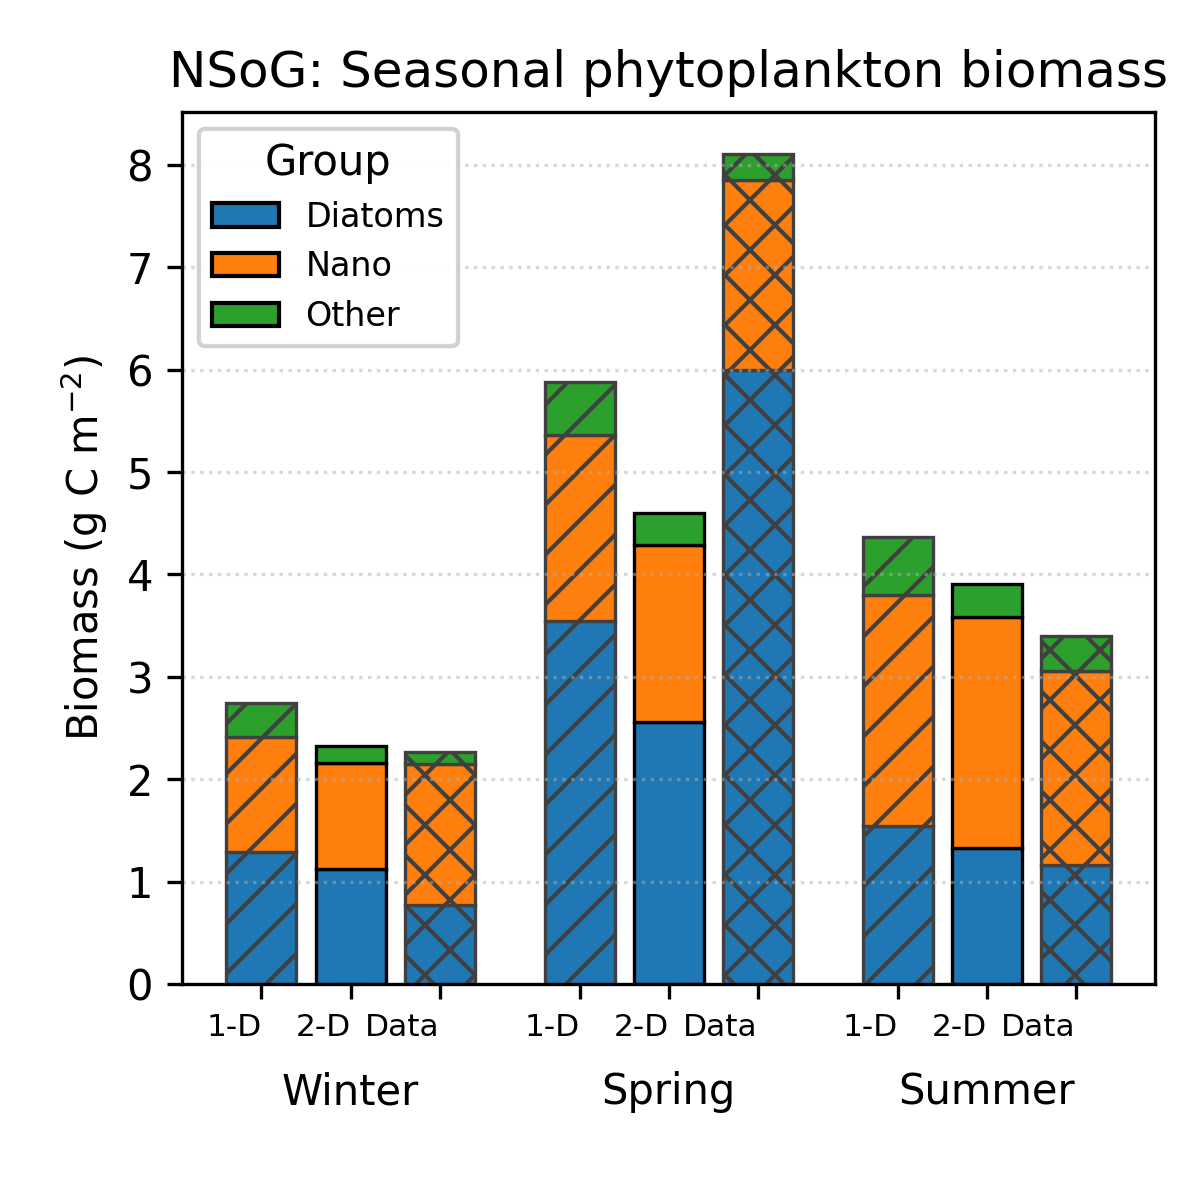
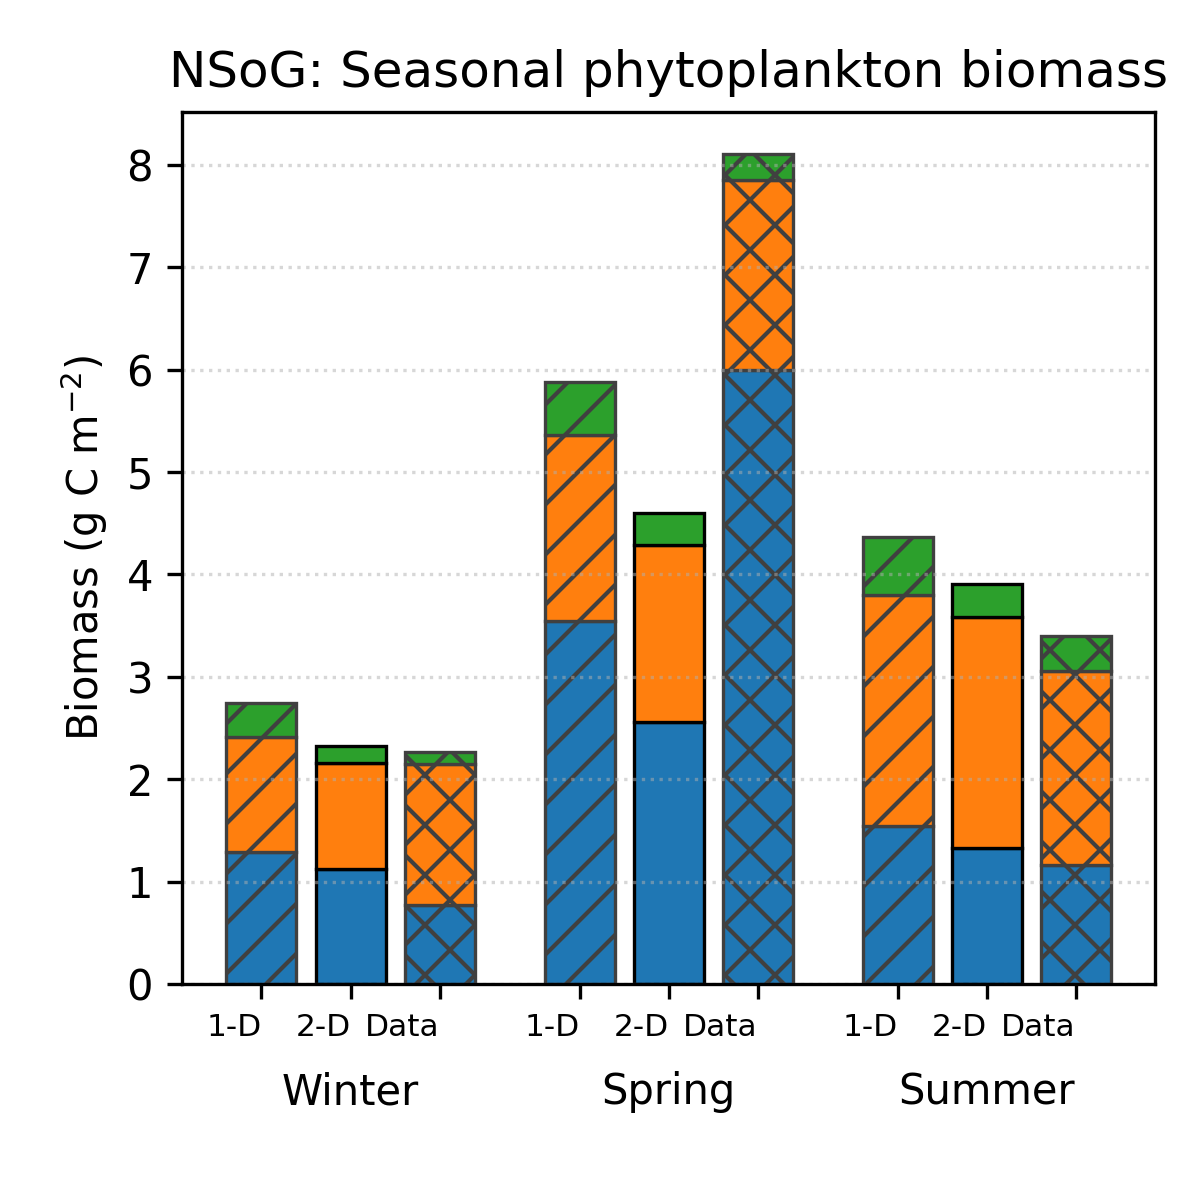
remove legend from mcewan comparison

Changed region(s): [[0.1542, 0.0925, 0.4008, 0.3083]]

diff --git a/scripts/PublicationScripts/ecospace_eval_2a_mcewan_phyto_seas.py b/scripts/PublicationScripts/ecospace_eval_2a_mcewan_phyto_seas.py
@@ -393,8 +393,8 @@ def plot_stacked_three_source(df_long: pd.DataFrame, domain_label: str, out_png:
         for s in sources
     ]
 
-    leg1 = ax.legend(handles=group_handles, loc="upper left", title="Group", fontsize=8)
-    ax.add_artist(leg1)
+    # leg1 = ax.legend(handles=group_handles, loc="upper left", title="Group", fontsize=8)
+    # ax.add_artist(leg1)
     # ax.legend(handles=source_handles, loc="upper right", title="Source", fontsize=8)
 
     ax.set_ylabel("Biomass (g C m$^{-2}$)")
